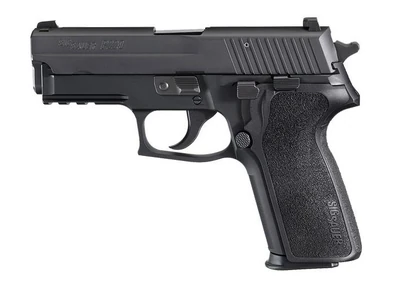
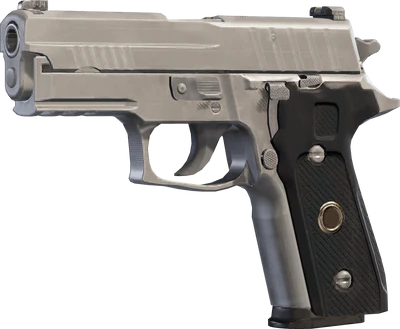
transparent art: bg-removed laser pin + R6S renders for PMM/P229

diff --git a/scripts/sync-r6-weapons.js b/scripts/sync-r6-weapons.js
@@ -18,6 +18,13 @@ const SLEEP_MS = 350;
 
 const ADS_MS = { AR: 400, DMR: 400, SMG: 300, H: 200, MP: 275, LMG: 450, S: 250, SR: 400, SG: 350 };
 
+// Canonical art overrides: the parser takes the infobox image, but a few
+// pages lead with white-background IRL photos while transparent R6S
+// renders exist on the same page. Wiki can never clobber these pins.
+const WEAPON_ART_OVERRIDES = {
+  'PMM': 'R6S_PMM.png',
+  'P229': 'R6S_P229.png',
+};
 // Loadout display names that are NOT the wiki page title (in-game renames,
 // descriptor suffixes, spelling variants). Search fallback may only adopt a
 // page listed here or related by name — never an unrelated hit (that once
@@ -516,7 +523,9 @@ async function main() {
       parsed.art = null;
       if (parsed.imageFile) {
         const rel = `r6_images/weapons/w-${slug}.png`;
-        manifest.images[rel] = { file: parsed.imageFile, width: 400 };
+        const override = WEAPON_ART_OVERRIDES[parsed.name];
+        manifest.images[rel] = { file: override || parsed.imageFile, width: 400 };
+        if (override) console.log(`sync-weapons: art override ${parsed.name} -> ${override}`);
         parsed.art = rel;
       }
       delete parsed.imageFile;
